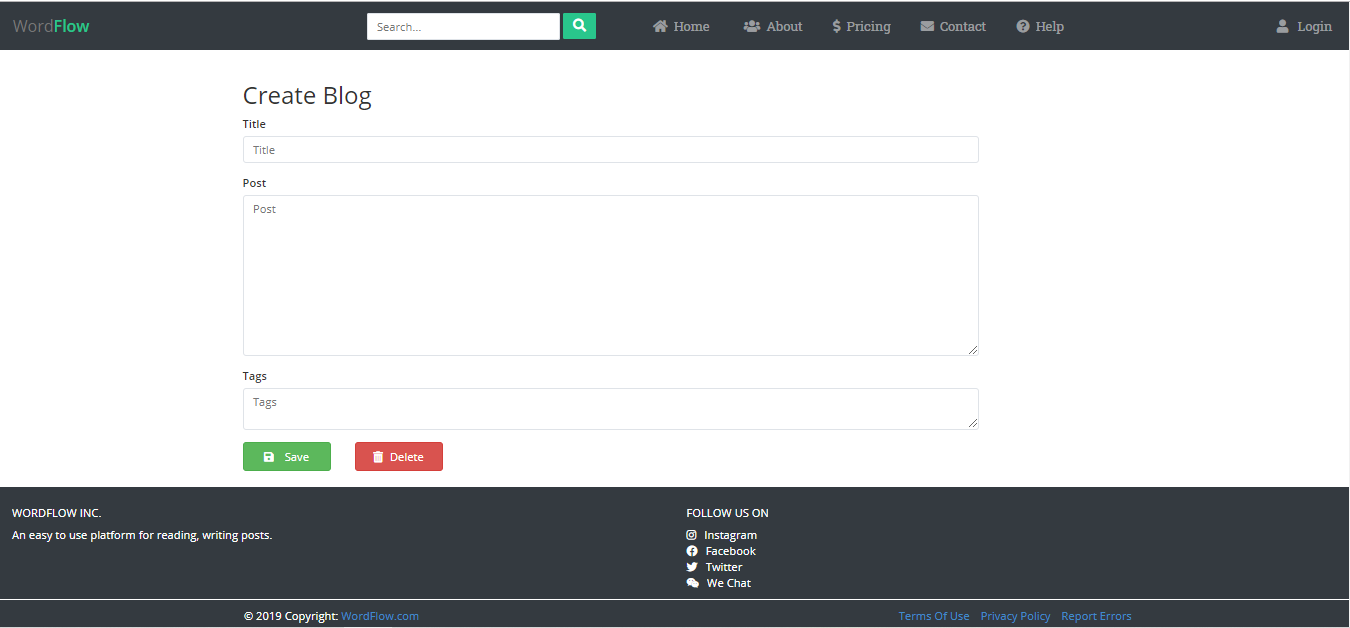
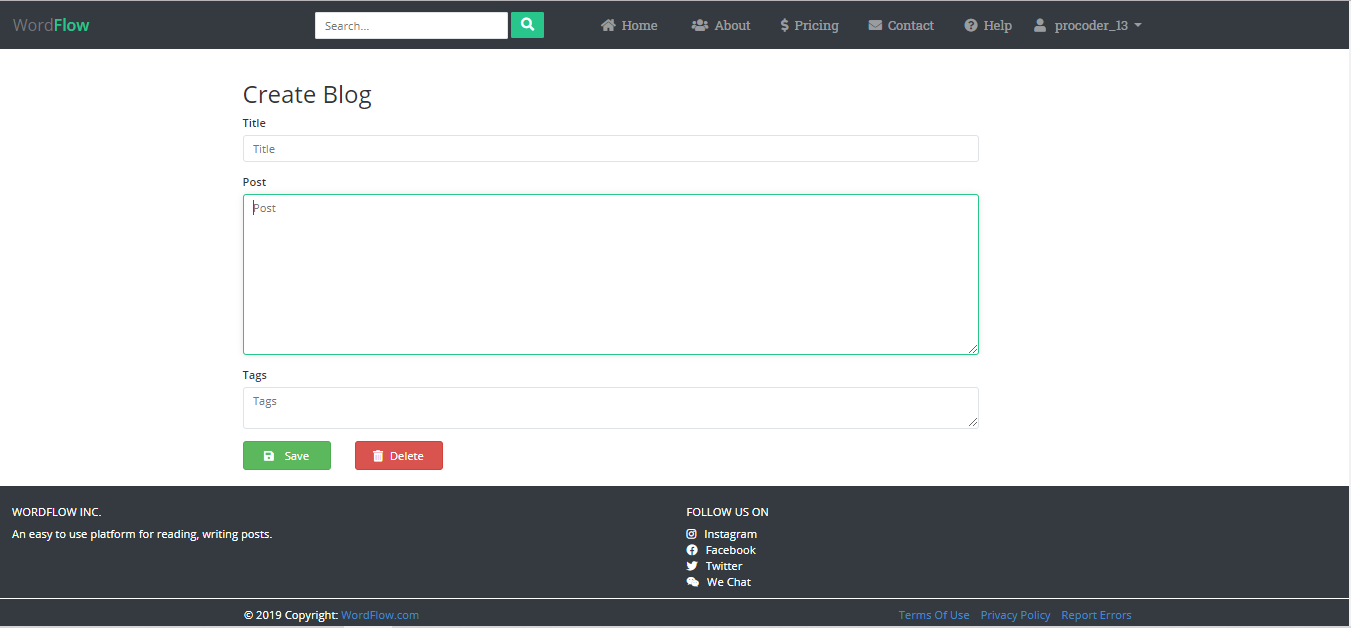
Last Commit

diff --git a/app.py b/app.py
@@ -273,7 +273,7 @@ def newPost(user):
 			return redirect(url_for('dashboard'))
 		except Exception as e:
 			flash(Markup('<b>Some error occured</b> ! New Post not created..'), category='danger')
-	return render_template('write.html', form=form, username=user)
+	return render_template('write.html', form=form, username=user, logged_in=True)
 
 @app.route('/<user>/edit/<int:pid>', methods=['POST', 'GET'])
 @is_logged_in

diff --git a/README.md b/README.md
@@ -35,3 +35,39 @@ http://localhost:5000
 ## Improvements:
 - [ ] Like, Comment, Share.
 - [ ] @mentions, images for blogs.
+
+## DEMO
+**1. Dashboard**
+
+![Dashboard](https://github.com/girishgr8/WordFlow/blob/master/static/images/demos/1.PNG)
+
+**2.Create New Blog**
+
+![New Blog](https://github.com/girishgr8/WordFlow/blob/master/static/images/demos/5.PNG)
+
+**3. Edit Blog**
+
+![Edit Blog](https://github.com/girishgr8/WordFlow/blob/master/static/images/demos/4.PNG)
+
+**4. Edit Profile**
+
+![Edit Profile](https://github.com/girishgr8/WordFlow/blob/master/static/images/demos/3.PNG)
+
+**5. View Your Blogs**
+
+![Your Blogs](https://github.com/girishgr8/WordFlow/blob/master/static/images/demos/2.PNG)
+
+**6.Contact Community Service**
+
+![Contact Community Service](https://github.com/girishgr8/WordFlow/blob/master/static/images/demos/6.PNG)
+
+**7. New Feature Upcoming**
+
+![New Feature](https://github.com/girishgr8/WordFlow/blob/master/static/images/demos/7.PNG)
+
+
+
+
+
+
+
